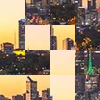
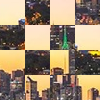
WIP first result

diff --git a/Task2/image_joiner.py b/Task2/image_joiner.py
@@ -2,7 +2,6 @@ import cv2
 import random
 import argparse
 import numpy as np
-
 """
 
 Reads in n x n small images and join them based on original order
@@ -21,12 +20,13 @@ class ImageJoiner:
     def __init__(self, params):
         self.params = params
         self.size = int(self.params.size)
-        self.MARGIN = 10 # margin size in pixel
+        self.MARGIN = 20 # margin size in pixel
+        self.solved = []
 
-    def compareHistogram(self, first, second):
+    def compareHistogram(self, first, second, first_side, second_side):
         metrics = [cv2.HISTCMP_CORREL, cv2.HISTCMP_CHISQR, cv2.HISTCMP_INTERSECT, cv2.HISTCMP_BHATTACHARYYA]
-        histogram1 = self.calculateHistogram(first)
-        histogram2 = self.calculateHistogram(second)
+        histogram1 = self.calculateHistogram(self.getMargin(first, first_side))
+        histogram2 = self.calculateHistogram(self.getMargin(second, second_side))
         return cv2.compareHist(histogram1, histogram2, metrics[0])
 
     def calculateHistogram(self, patch):
@@ -50,10 +50,25 @@ class ImageJoiner:
         return margin_map[position]
 
     def solve(self):
-        first = self.getMargin(self.image, "left")
-        second = self.getMargin(self.patches[5], "right")
-        cv2.imwrite('cropped.png', first)
-        print(self.compareHistogram(first, second))
+        i = 1
+        self.solved.append(self.patches[0])
+        current = self.patches[0]
+        self.patches.pop(0)
+        while len(self.patches) > 0:
+            if i < self.row_count and i % self.row_count != 0: # first row, only compare left margin
+                print(i, "first row")
+                most_fit = sorted(enumerate(self.patches), key=lambda tuple: self.compareHistogram(current, tuple[1], "right", "left"))[0]
+            elif i % self.row_count == 0: # first column, only compare top margin to the one right above
+                print(i, "first column")
+                most_fit = sorted(enumerate(self.patches), key=lambda tuple: self.compareHistogram(self.solved[i-self.row_count], tuple[1], "bottom", "top"))[0]
+            else: # the rest --> compare to right of current and bottom of the above
+                print(i, "rest")
+                most_fit = sorted(enumerate(self.patches), key=lambda tuple: self.compareHistogram(current, tuple[1], "right", "left") + self.compareHistogram(self.solved[i-self.row_count], tuple[1], "bottom", "top"))[0]
+            current = most_fit[1]
+            self.solved.append(current)
+            self.patches.pop(most_fit[0])
+            i += 1
+
 
     def run(self):
         image = cv2.imread(self.params.image)
@@ -66,6 +81,7 @@ class ImageJoiner:
         image = cv2.cvtColor(image, cv2.COLOR_RGB2RGBA)
         offset = int(self.size / 2)
         row_count = int((image.shape[0] - offset) / self.size / 1.5)
+        self.row_count = row_count
 
         new_image_size = int(row_count * self.size)
         output = np.zeros((new_image_size, new_image_size, 4)) # 4 = number of color channels
@@ -80,7 +96,7 @@ class ImageJoiner:
         index_count = 0
         for column in range(0, row_count):
             for row in range(0, row_count):
-                output[top_point : top_point + self.size, left_point : left_point + self.size, :] = self.patches[index_count]
+                output[top_point : top_point + self.size, left_point : left_point + self.size, :] = self.solved[index_count]
                 left_point += self.size
                 index_count += 1
             left_point = 0
